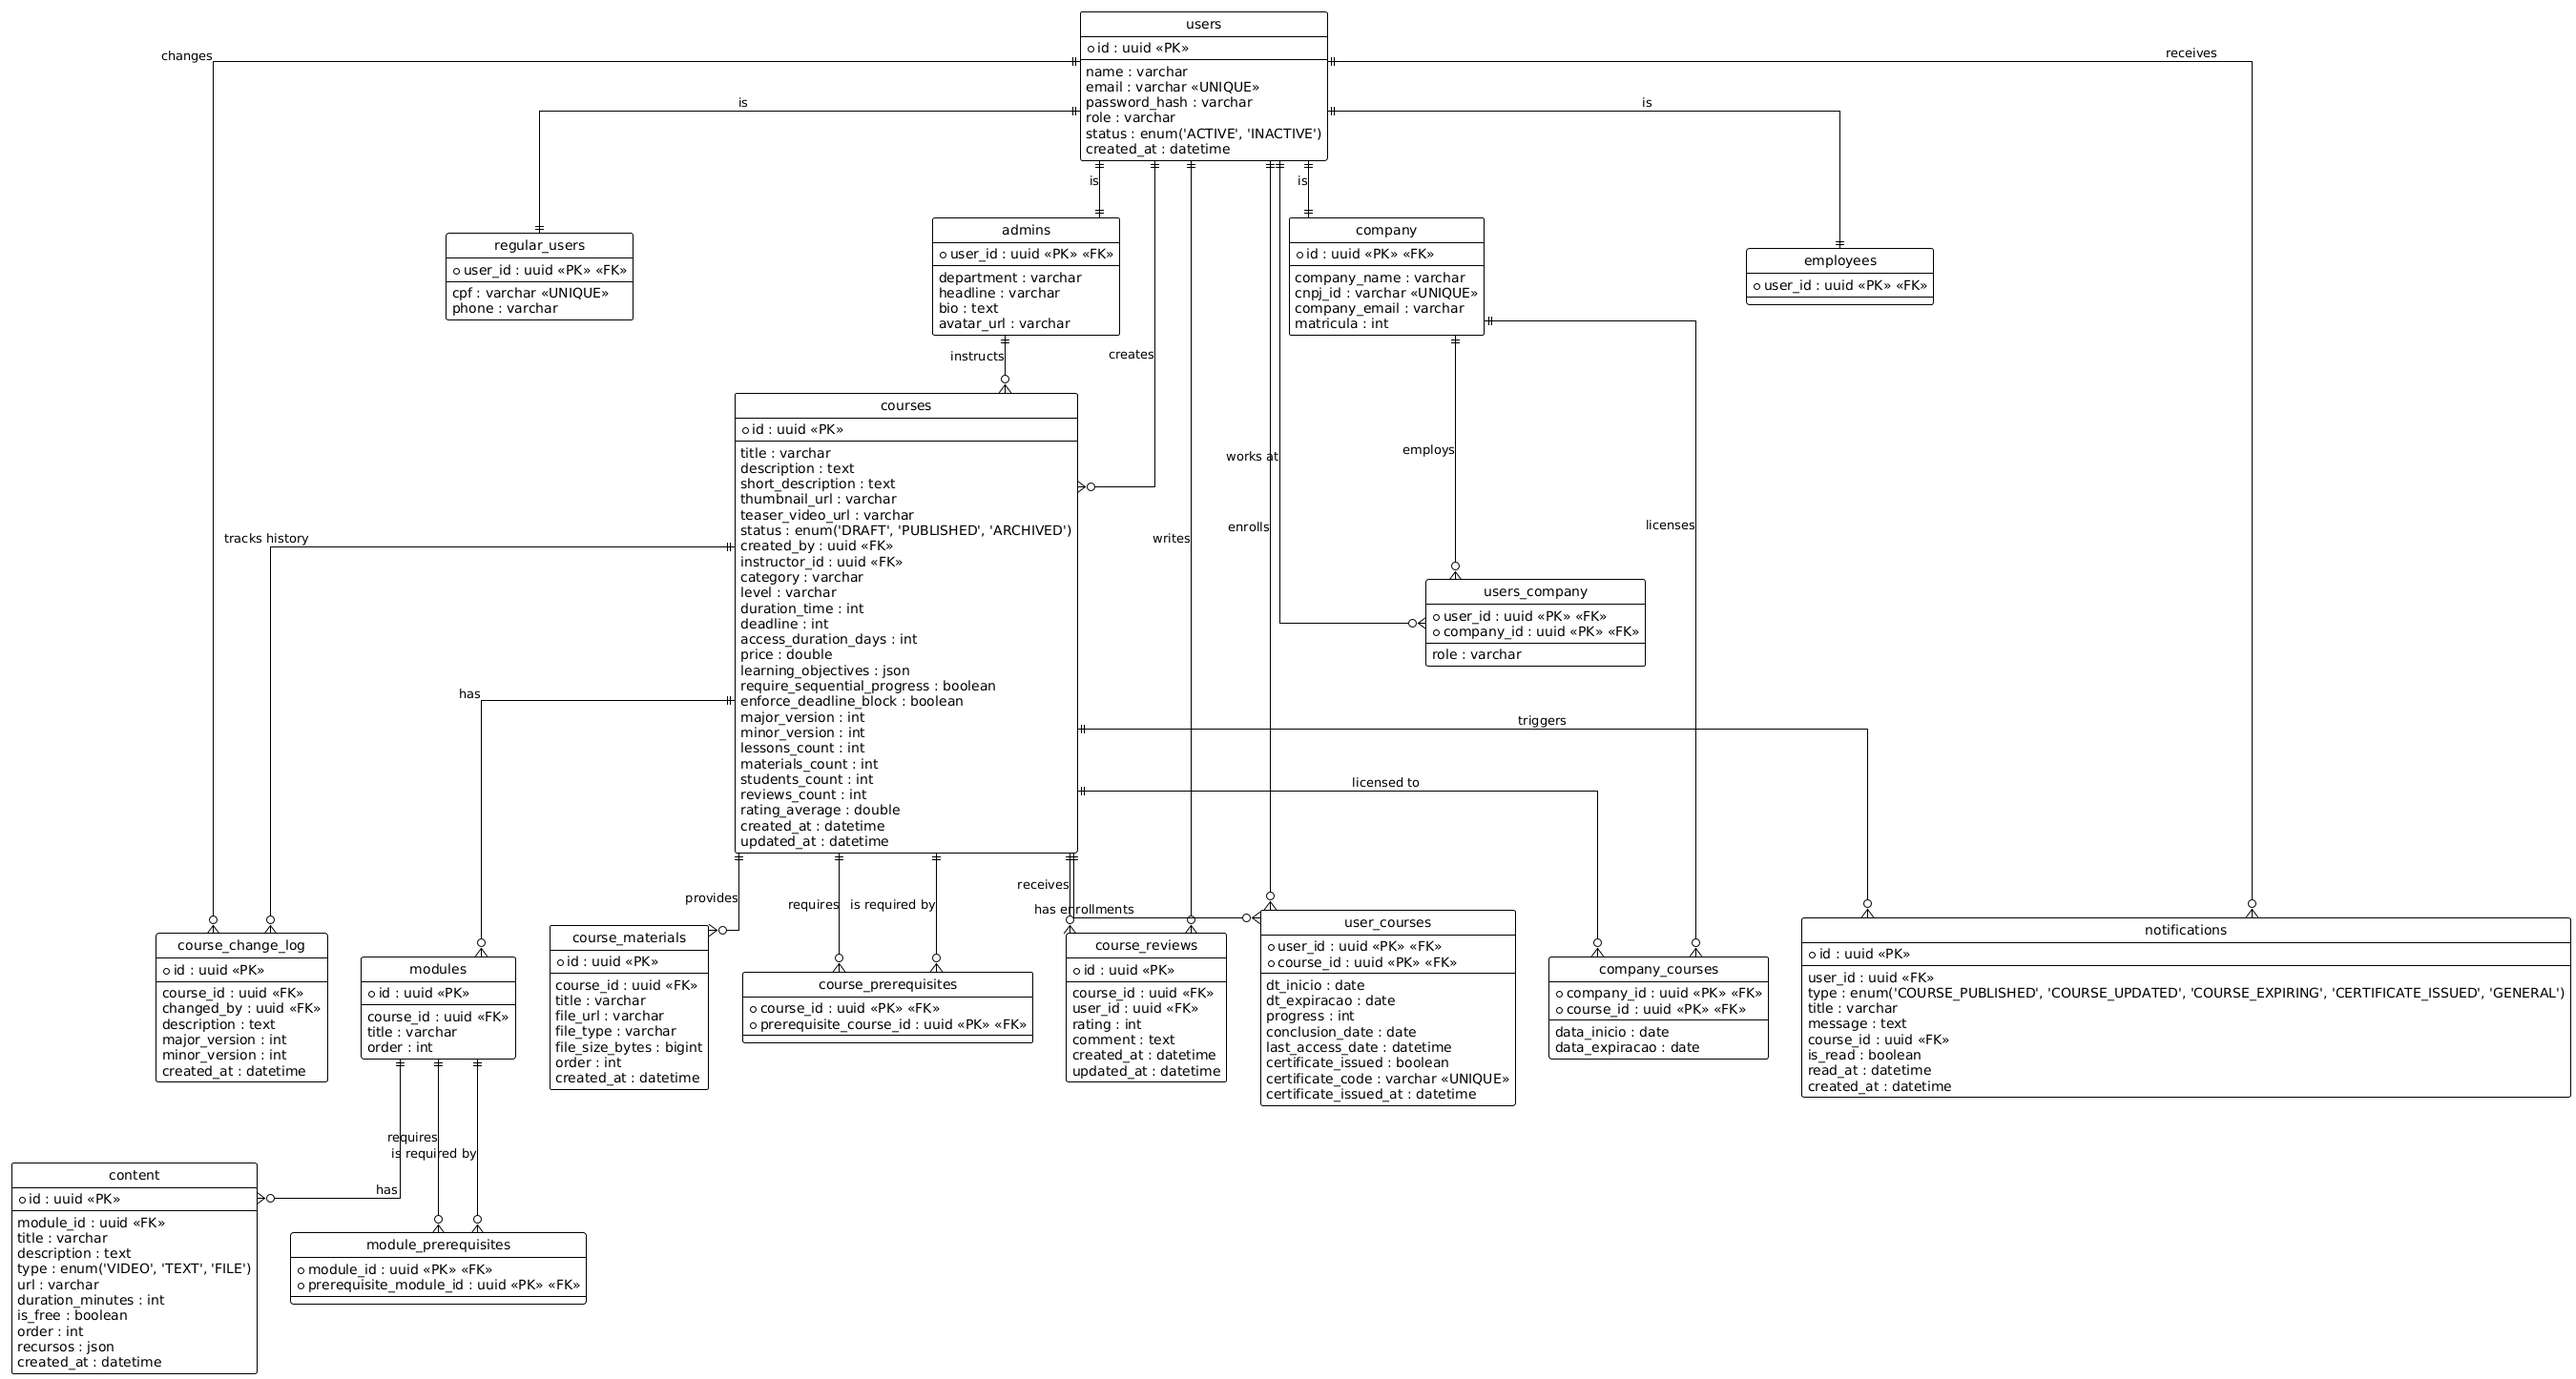
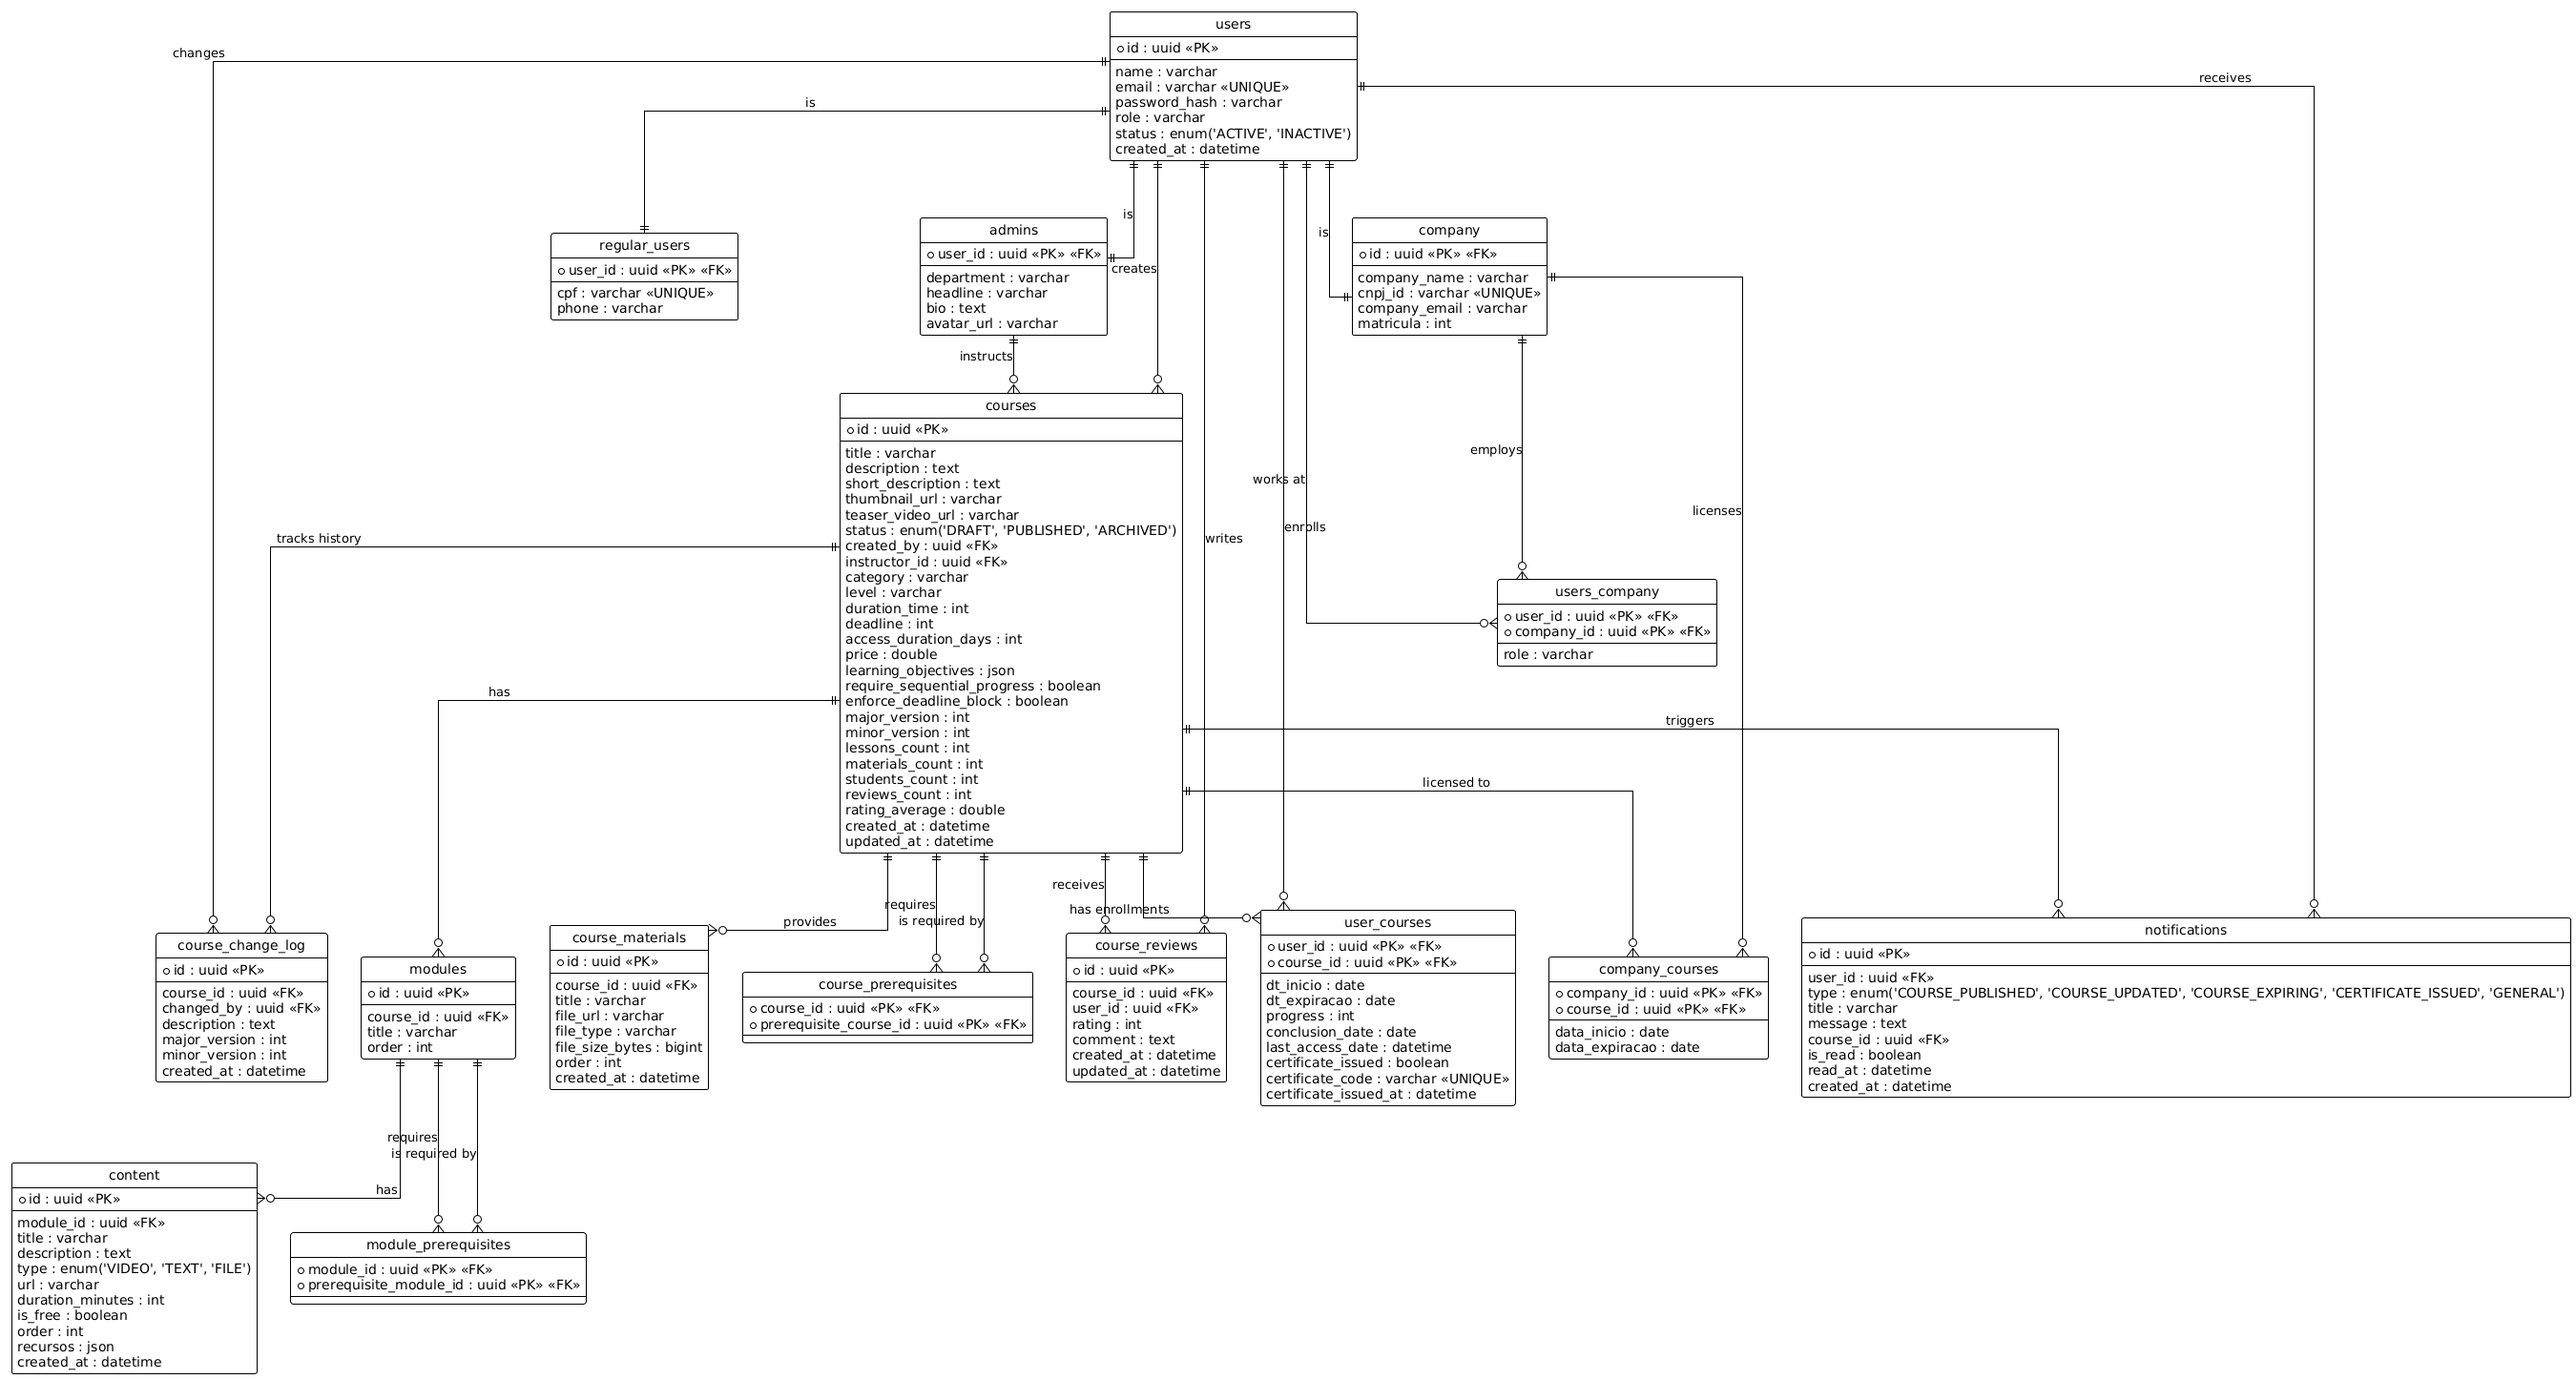
chore: remove redundant Employee entity

diff --git a/src/main/java/com/escapa/backend/domain/README.md b/src/main/java/com/escapa/backend/domain/README.md
@@ -18,7 +18,7 @@ Se um dia trocarmos o Spring Boot por outro framework, ou o PostgreSQL por outro
 
 ## O que já temos
 - `entity/User.java` — um usuário da plataforma (id, nome, email, hash da senha, tipo, data de criação). O `id` é um `java.util.UUID`, igual em todas as entidades: todas as PKs do banco são do tipo `uuid` nativo do Postgres. O campo é `passwordHash`, não `password`: a senha em texto puro nunca entra no domínio — o `CreateUserUseCase` já a converte via `PasswordHasherPort`.
-- `entity/Admin.java`, `entity/Company.java`, `entity/Employee.java` — especializações de `User`.
+- `entity/Admin.java`, `entity/Company.java` — especializações de `User`.
 - `entity/Course.java`, `entity/Module.java`, `entity/Content.java` — a estrutura de um curso.
 - `entity/UserCourse.java`, `entity/CompanyCourse.java`, `entity/UsersCompany.java` — matrículas e vínculos.
 - `user/UserNotFoundException.java` — erro de domínio disparado quando um usuário buscado não existe.
